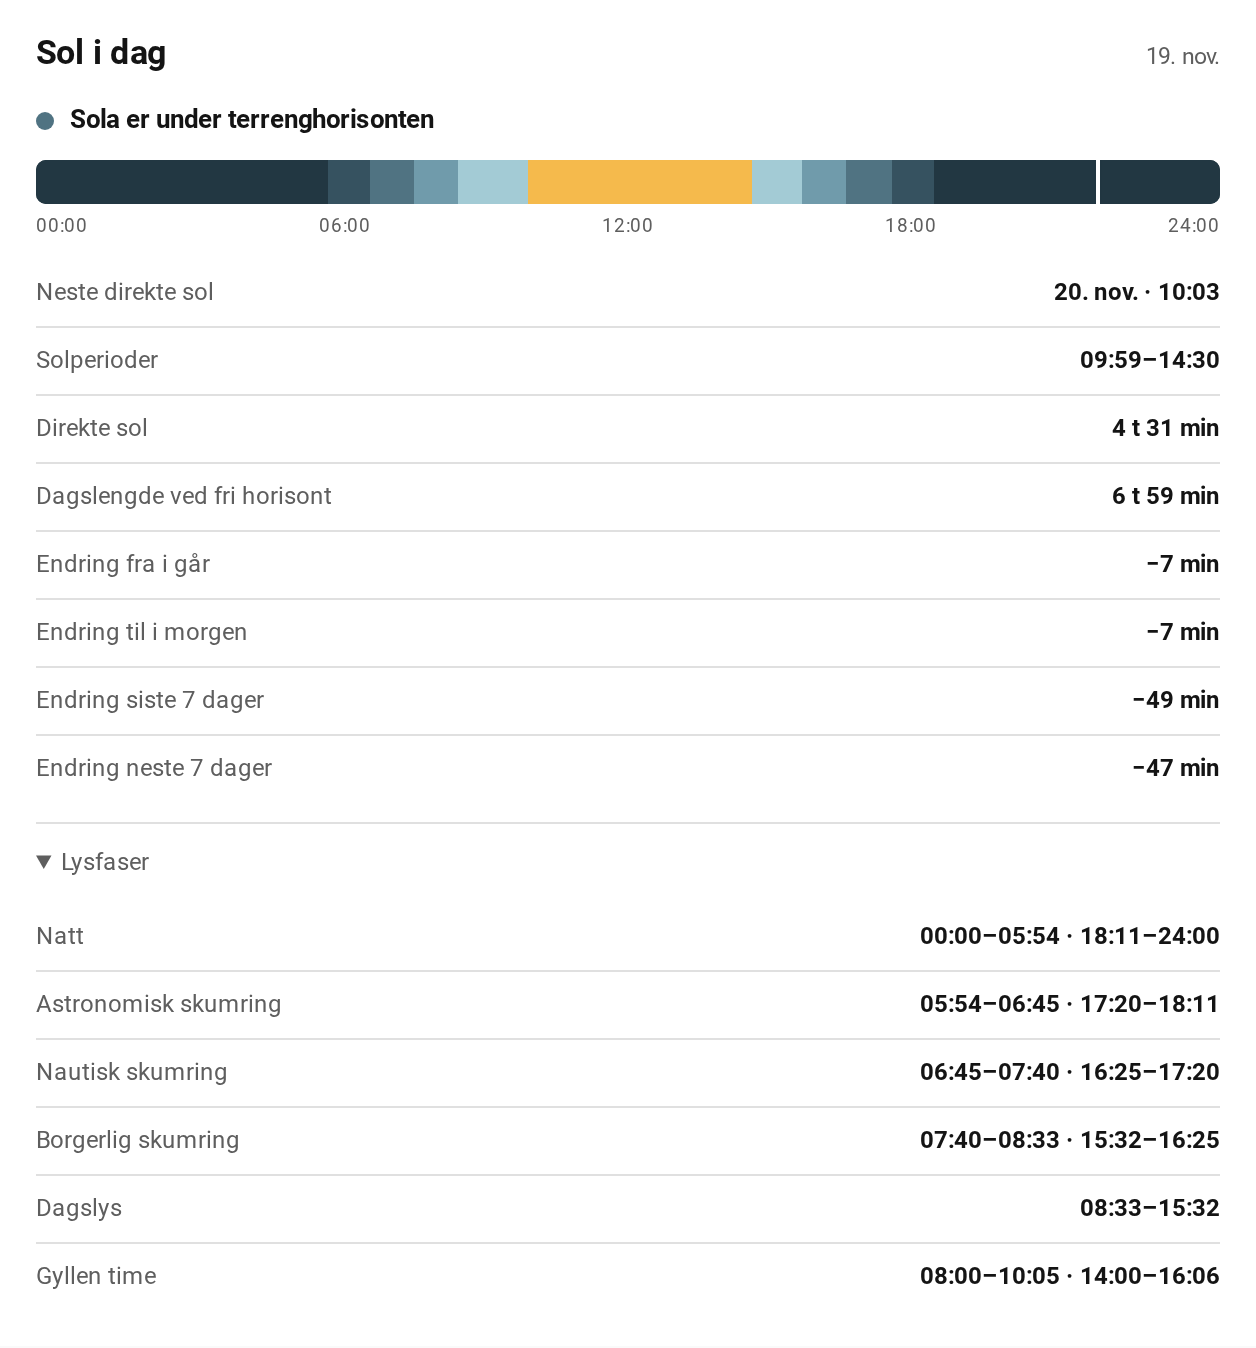
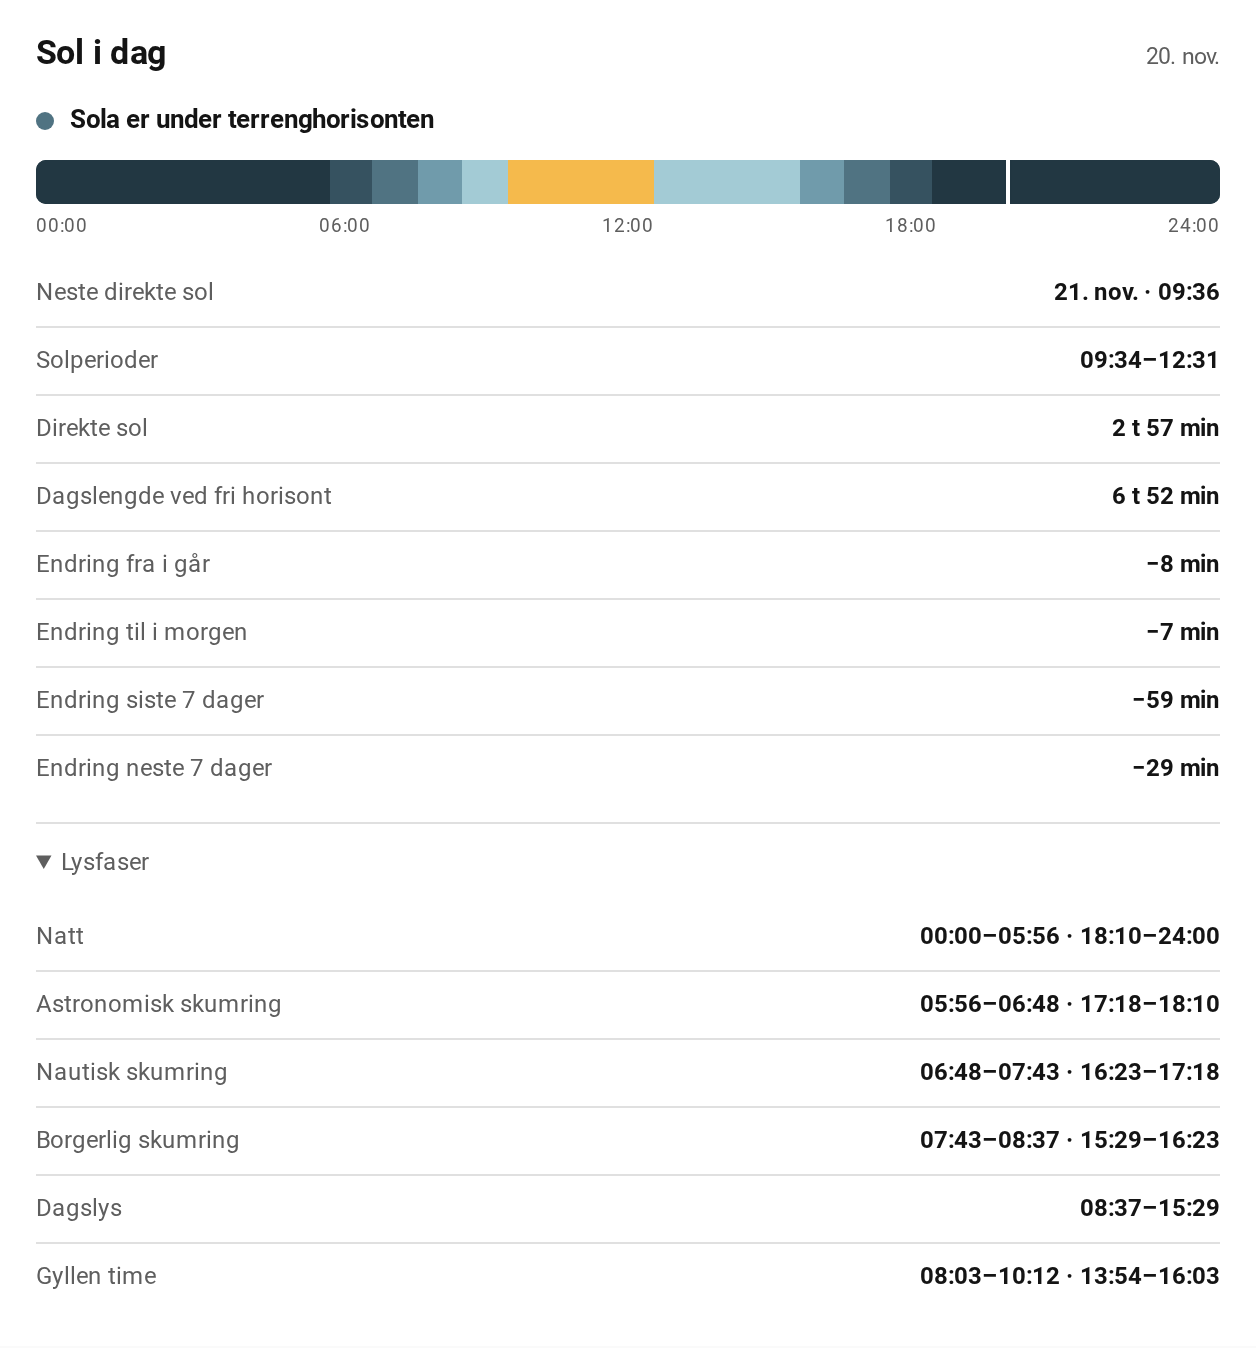
Rename the horizon view and show the Øyer terrain profile
Use the Øyer angle data in the example, refresh the README screenshots from Home Assistant, and document v2026.11.20.3.

diff --git a/custom_components/terrain_sun/frontend/terrain-sun.js b/custom_components/terrain_sun/frontend/terrain-sun.js
@@ -8,7 +8,7 @@ const WORDS = {
   no: {
     title: "Tittel", graphHeight: "Grafhøyde", compact: "Kompakt", normal: "Normal", tall: "Høy",
     minElevation: "Nedre gradgrense", maxElevation: "Øvre gradgrense", autoElevation: "La feltet stå tomt for automatisk skalering.",
-    fixedSun: "Fast solbane", showTwilight: "Vis skumring", showMoon: "Vis månen", moon: "Månen",
+    fixedSun: "Vis hele solbanen", showTwilight: "Vis skumring", showMoon: "Vis månen", moon: "Månen",
     sunCenter: "solsentrum", invalidHeight: "Velg Kompakt, Normal eller Høy.",
     invalidLimits: "Gradgrensene må være mellom −90° og 90°, med nedre grense under øvre grense.",
     direct: "Direkte sol", terrain_shade: "Dagslys i terrengskygge", daylight: "Dagslengde ved fri horisont",
@@ -31,7 +31,7 @@ const WORDS = {
   en: {
     title: "Title", graphHeight: "Chart height", compact: "Compact", normal: "Normal", tall: "Tall",
     minElevation: "Lower elevation limit", maxElevation: "Upper elevation limit", autoElevation: "Leave blank for automatic scaling.",
-    fixedSun: "Fixed sun path", showTwilight: "Show twilight", showMoon: "Show the moon", moon: "Moon",
+    fixedSun: "Show full sun path", showTwilight: "Show twilight", showMoon: "Show the moon", moon: "Moon",
     sunCenter: "sun center", invalidHeight: "Choose Compact, Normal, or Tall.",
     invalidLimits: "Elevation limits must be between −90° and 90°, with the lower limit below the upper limit.",
     direct: "Direct sun", terrain_shade: "Daylight in terrain shade", daylight: "Daylight with a clear horizon",

diff --git a/README.md b/README.md
@@ -11,7 +11,7 @@ Krever Home Assistant **2026.11.2** eller nyere.
 3. Legg til **Terrain Sun** under **Innstillinger → Enheter og tjenester**. Velg `horizon.txt` fra PeakFinder (**Export → Horizon for Stellarium**).
 4. Last inn Home Assistant-fanen på nytt etter oppsettet. Rediger dashboardet, åpne **Legg til kort → Etter kort** og søk etter **Terrain Sun**.
 
-For en første gjennomgang kan du bruke [eksempelprofilen](examples/horizon.txt). Den er konstruert og bruker plasseringen fra Home Assistant. En PeakFinder-eksport med koordinater bruker utsiktspunktet i eksporten. Begge bruker tidssonen fra Home Assistant. For å bytte profil velger du **Konfigurer på nytt** på integrasjonen og laster opp en ny fil.
+For en første gjennomgang kan du bruke [eksempelprofilen fra Øyer](examples/horizon.txt), basert på vinkelverdier fra PeakFinder. Eksempelfilen bruker Home Assistant sin plassering. En PeakFinder-eksport med koordinater bruker utsiktspunktet i eksporten. Begge bruker tidssonen fra Home Assistant. For å bytte profil velger du **Konfigurer på nytt** på integrasjonen og laster opp en ny fil.
 
 Marketplace henter oppdateringer fra GitHub Releases. Start Home Assistant på nytt når Marketplace ber om det. Terrengprofilen ligger i integrasjonens konfigurasjon og følger med ved oppdatering.
 
@@ -36,14 +36,14 @@ Velg innstillingene i den visuelle kortredigeringen, eller bruk de tilsvarende Y
 | Grafhøyde | `graph_height` | Høy (`tall`). Velg eventuelt Kompakt (`compact`) eller Normal (`normal`). |
 | Nedre og øvre gradgrense | `min_elevation`, `max_elevation` | Gjelder vanlig visning. Tomme felt skaleres automatisk. Lås én grense for å styre hva som kommer med, eller begge for å sammenligne datoer med samme målestokk. |
 | Vis skumring | `show_twilight` | Av. Fargebåndene følger astronomiske grenser og fargene i Solåret. Grafen viser solsentrum i denne visningen. Direkte sol beregnes ved øvre solrand mot terrenget. |
-| Fast solbane | `fixed_sun` | Av. Grafvinduet tilpasses så hele solbanen innenfor kompassutsnittet får plass. Begge aksene viser faktiske grader med lineær skala. Knappen i kortet veksler visningen, og innstillingen angir startvalget. Den tidligere nøkkelen `center_sun` støttes som alias. |
+| Vis hele solbanen | `fixed_sun` | Av. Grafvinduet tilpasses så hele solbanen innenfor kompassutsnittet får plass. Begge aksene viser faktiske grader med lineær skala. Knappen i kortet veksler visningen, og innstillingen angir startvalget. Den tidligere nøkkelen `center_sun` støttes som alias. |
 | Vis månen | `show_moon` | Av. For dagens dato vises månens posisjon akkurat nå når den er innenfor figuren, både over og under terrenglinjen. Kortet beregner posisjonen lokalt med [Astronomy Engine](https://pypi.org/project/astronomy-engine/). |
 
-I **Fast solbane** deler sol, terreng, skumringsbånd og måne samme høydeakse. Når grafvinduet tilpasses en annen dato, flytter terrengprofilen seg i bildet og kan fortsatt leses av i faktiske grader. Y-aksen tilpasses også i 360°-visningen.
+Med **Vis hele solbanen** deler sol, terreng, skumringsbånd og måne samme høydeakse. Når grafvinduet tilpasses en annen dato, flytter terrengprofilen seg i bildet og kan fortsatt leses av i faktiske grader. Y-aksen tilpasses også i 360°-visningen.
 
 ### Skjermbilder
 
-Kortene er vist i Home Assistant med [eksempelprofilen](examples/horizon.txt).
+Kortene er vist i Home Assistant med [eksempelprofilen fra Øyer](examples/horizon.txt).
 
 #### Sol i dag
 
@@ -51,7 +51,7 @@ Kortene er vist i Home Assistant med [eksempelprofilen](examples/horizon.txt).
 
 #### Lokal horisont
 
-<img src="docs/images/lokal-horisont.webp" width="600" alt="Lokal horisont med Fast solbane, lineære akser og faktiske høydegrader">
+<img src="docs/images/lokal-horisont.webp" width="600" alt="Lokal horisont fra Øyer med hele solbanen og grader på begge aksene">
 
 #### Solåret
 

diff --git a/docs/releases/v2026.11.20.3.md b/docs/releases/v2026.11.20.3.md
@@ -1,0 +1,8 @@
+## Lokal horisont
+
+- Knappen **Fast solbane** heter nå **Vis hele solbanen**. Visningen fungerer som før.
+
+## Eksempelprofil og skjermbilder
+
+- `examples/horizon.txt` bruker azimut og høydevinkler fra en PeakFinder-profil i Øyer. Home Assistant angir plasseringen når eksempelfilen brukes.
+- Skjermbildene i README-en viser alle tre kortene med den nye eksempelprofilen.
